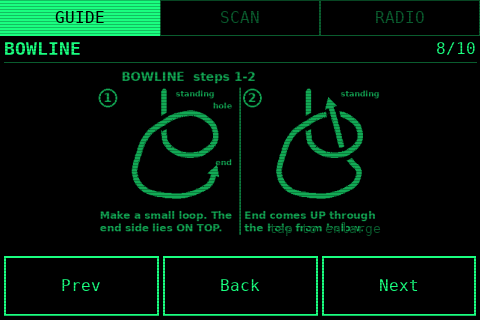
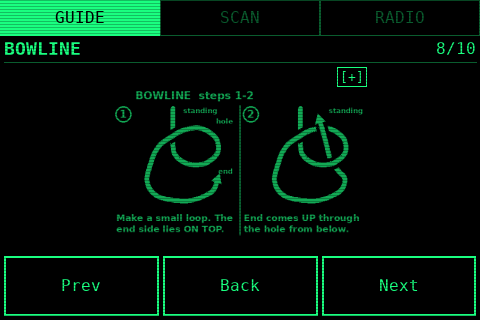
Move the enlarge hint off inline diagram captions.
The dim "tap to enlarge" line was painted on the picture and covered the
caption. A [+] badge now sits in a strip above the top-right of the image,
and the whole picture stays the tap target.

Changed region(s): [[0.1875, 0.2188, 0.8125, 0.75], [0.1875, 0.2812, 0.2812, 0.4062]]

diff --git a/field_touch.py b/field_touch.py
@@ -280,22 +280,47 @@ def load_card_image(relpath, max_w, max_h, directory, tint, enlarge=False):
     return image
 
 
-def stamp_enlarge_hint(image, font):
-    """Paint a dim 'tap to enlarge' on an inline diagram. Done once, at layout."""
-    width, height = image.get_size()
-    if font is None or width < 24 or height < 12:
-        return
-    label = "tap to enlarge"
-    if font.size(label)[0] > width - 4:
-        label = ellipsize(font, label, max(0, width - 4))
-    if not label:
-        return
-    hint = font.render(label, True, DIM)
-    shadow = font.render(label, True, BLACK)
-    x = max(0, width - hint.get_width() - 3)
-    y = max(0, height - hint.get_height() - 2)
-    image.blit(shadow, (min(width - shadow.get_width(), x + 1), min(height - shadow.get_height(), y + 1)))
-    image.blit(hint, (x, y))
+ENLARGE_MARK = "[+]"
+
+
+def enlarge_badge_size(font):
+    """Pixel size of the black [+] box, including its padding. (0, 0) with no font."""
+    if font is None:
+        return 0, 0
+    text_w, text_h = font.size(ENLARGE_MARK)
+    if text_w <= 0 or text_h <= 0:
+        return 0, 0
+    return text_w + 6, text_h + 4
+
+
+def draw_enlarge_badge(canvas, font, image_rect, strip_h):
+    """Green [+] on a black box, in the strip above the picture's top-right.
+
+    The box is outside image_rect, so it never paints over the diagram or its caption.
+    """
+    if font is None or strip_h <= 0 or image_rect.width < 8 or image_rect.height < 8:
+        return None
+    label = font.render(ENLARGE_MARK, True, GREEN)
+    box_w = label.get_width() + 6
+    box_h = label.get_height() + 4
+    if box_w <= 0 or box_h <= 0 or box_h > strip_h:
+        return None
+    x = image_rect.right - box_w
+    x = max(0, min(x, WIDTH - box_w))
+    y = image_rect.top - box_h
+    if y < 0:
+        return None
+    box = pygame.Rect(x, y, box_w, box_h)
+    pygame.draw.rect(canvas, BLACK, box)
+    pygame.draw.rect(canvas, GREEN, box, 1)
+    canvas.blit(
+        label,
+        (
+            box.x + (box_w - label.get_width()) // 2,
+            box.y + (box_h - label.get_height()) // 2,
+        ),
+    )
+    return box
 
 
 def layout_pages(text, font, small, width, page_px, directory, tint):
@@ -314,20 +339,25 @@ def layout_pages(text, font, small, width, page_px, directory, tint):
             continue
         alt, relpath = rest
         # 480x284 is the artboard. The live box is the reader pane under the title.
-        image = load_card_image(relpath, min(width, 480), min(page_px, 284), directory, tint)
+        # A strip above the picture holds the enlarge badge so the caption stays clear.
+        badge_h = enlarge_badge_size(small)[1]
+        max_h = min(page_px, 284)
+        if badge_h >= max_h:
+            badge_h = 0
+        image = load_card_image(relpath, min(width, 480), max(1, max_h - badge_h), directory, tint)
         if image is None:
             label = f"[diagram: {alt}]" if alt else "[diagram]"
             for line in wrap_body(label, font, small, width):
                 blocks.append({"kind": "text", "text": line, "px": line_h})
             continue
-        stamp_enlarge_hint(image, small)
         blocks.append(
             {
                 "kind": "image",
                 "image": image,
                 "alt": alt,
                 "relpath": relpath,
-                "px": image.get_height(),
+                "px": image.get_height() + badge_h,
+                "badge_h": badge_h,
             }
         )
     zoom = 0
@@ -1645,11 +1675,15 @@ class App:
         for block in pages[page]:
             if block["kind"] == "image":
                 image = block["image"]
+                badge_h = block.get("badge_h", 0)
                 x = MARGIN + max(0, (self.content_width() - image.get_width()) // 2)
-                canvas.blit(image, (x, y))
+                rect = pygame.Rect(x, y + badge_h, image.get_width(), image.get_height())
+                canvas.blit(image, rect.topleft)
+                draw_enlarge_badge(canvas, self.font_small, rect, badge_h)
+                # The whole picture is the tap target. The badge sits in the strip above it.
                 self.widgets.append(
                     {
-                        "rect": pygame.Rect(x, y, image.get_width(), image.get_height()),
+                        "rect": rect,
                         "id": f"zoom:{block.get('zoom', 0)}",
                         "enabled": True,
                         "label": "diagram",
@@ -2426,14 +2460,34 @@ def self_test(screenshot_dir=None):
             check(hits > 15, f"image is drawn on the card ({hits} green rows)", failures)
             hint_image = images[0]["image"]
             center = hint_image.get_at((4, 4))
-            dark = 0
-            for py in range(max(0, hint_image.get_height() - 14), hint_image.get_height()):
-                for px in range(max(0, hint_image.get_width() - 70), hint_image.get_width()):
-                    if hint_image.get_at((px, py)).g + 30 < center.g:
-                        dark += 1
-            check(dark > 8, f"tap to enlarge hint ({dark} px)", failures)
+            corner = hint_image.get_at((hint_image.get_width() - 2, hint_image.get_height() - 2))
+            check(
+                abs(corner.g - center.g) < 20 and abs(corner.r - center.r) < 20,
+                f"hint is not painted on the picture {tuple(corner)} vs {tuple(center)}",
+                failures,
+            )
             zoom_widgets = [widget for widget in shown.widgets if widget["id"].startswith("zoom:")]
             check(len(zoom_widgets) == 1 and zoom_widgets[0]["id"] == "zoom:0", "inline image is tappable", failures)
+            rect = zoom_widgets[0]["rect"]
+            check(
+                (rect.width, rect.height) == hint_image.get_size(),
+                f"tap target is the whole image {rect.size}",
+                failures,
+            )
+            picture_corner = canvas.get_at((rect.right - 2, rect.top + 1))
+            check(picture_corner.g > 150, f"badge stays off the picture {tuple(picture_corner)}", failures)
+            badge_w, badge_h = enlarge_badge_size(shown.font_small)
+            badge_box = pygame.Rect(rect.right - badge_w, rect.top - badge_h, badge_w, badge_h)
+            check(badge_h > 0 and not badge_box.colliderect(rect), "badge strip is outside the picture", failures)
+            badge_green = 0
+            for py in range(badge_box.top, badge_box.bottom):
+                for px in range(badge_box.left, badge_box.right):
+                    pixel = canvas.get_at((px, py))
+                    if pixel.g > 140 and pixel.g > pixel.r + 40:
+                        badge_green += 1
+            check(badge_green > 8, f"enlarge badge ({badge_green} px)", failures)
+            check(shown.hit(rect.right - 2, rect.top + 2) == "zoom:0", "top-right of the picture is tappable", failures)
+            check(shown.hit(rect.left + 1, rect.bottom - 2) == "zoom:0", "bottom of the picture is tappable", failures)
             page_at = shown.current().get("page", 0)
             title_at = shown.current().get("title")
             depth = len(shown.stack)
